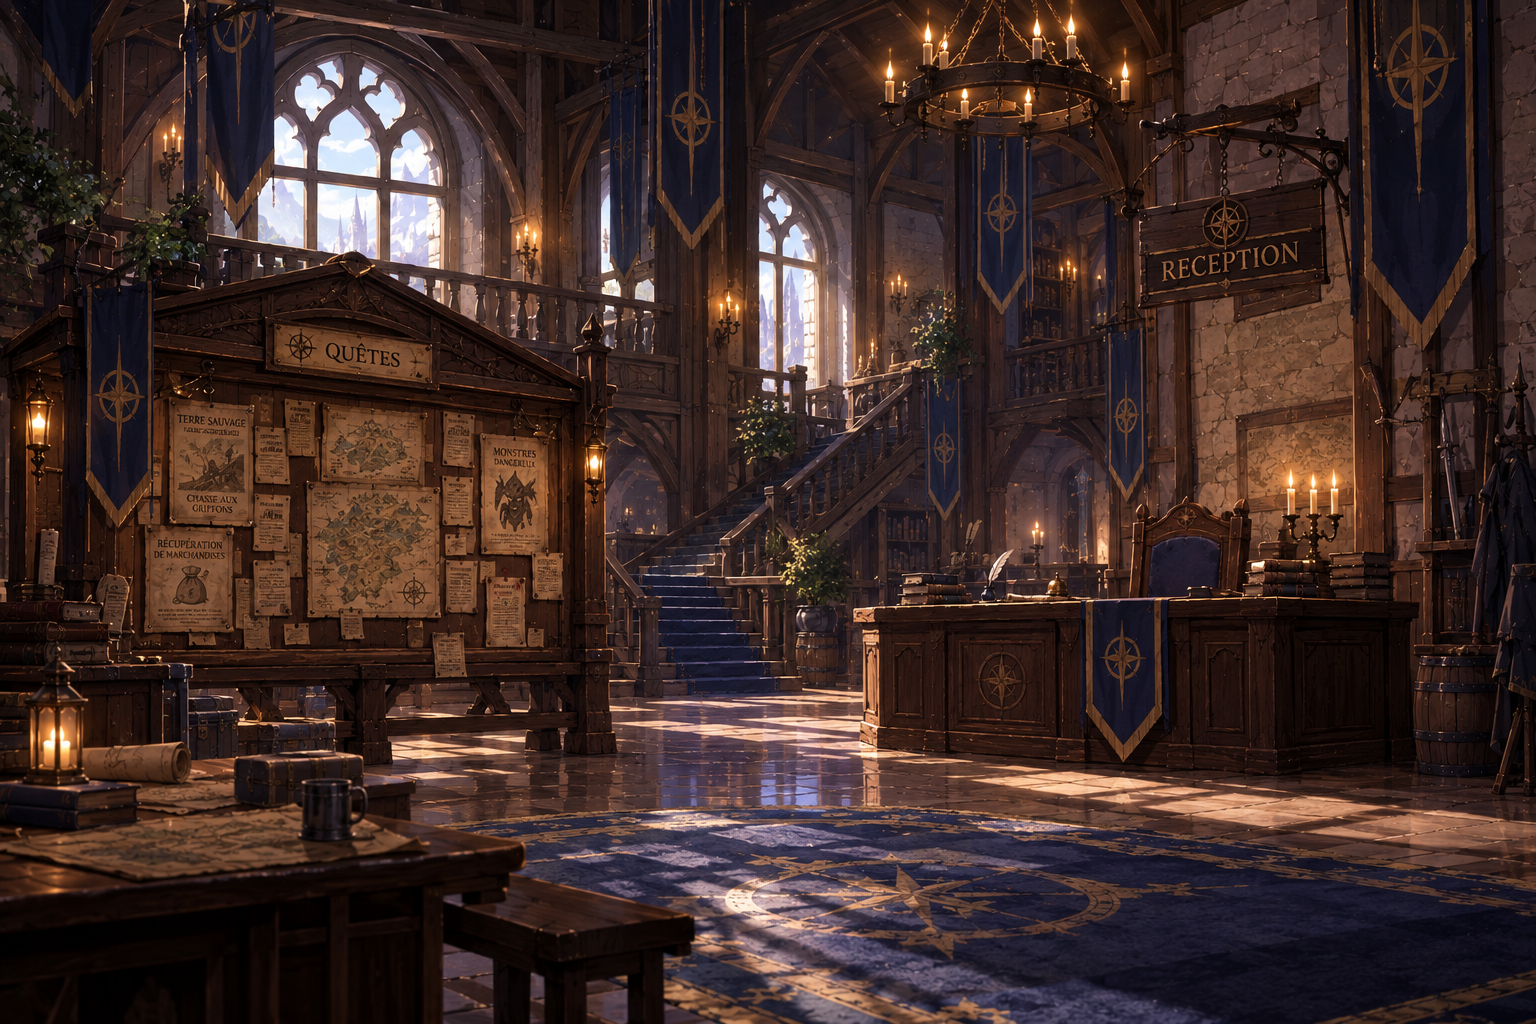
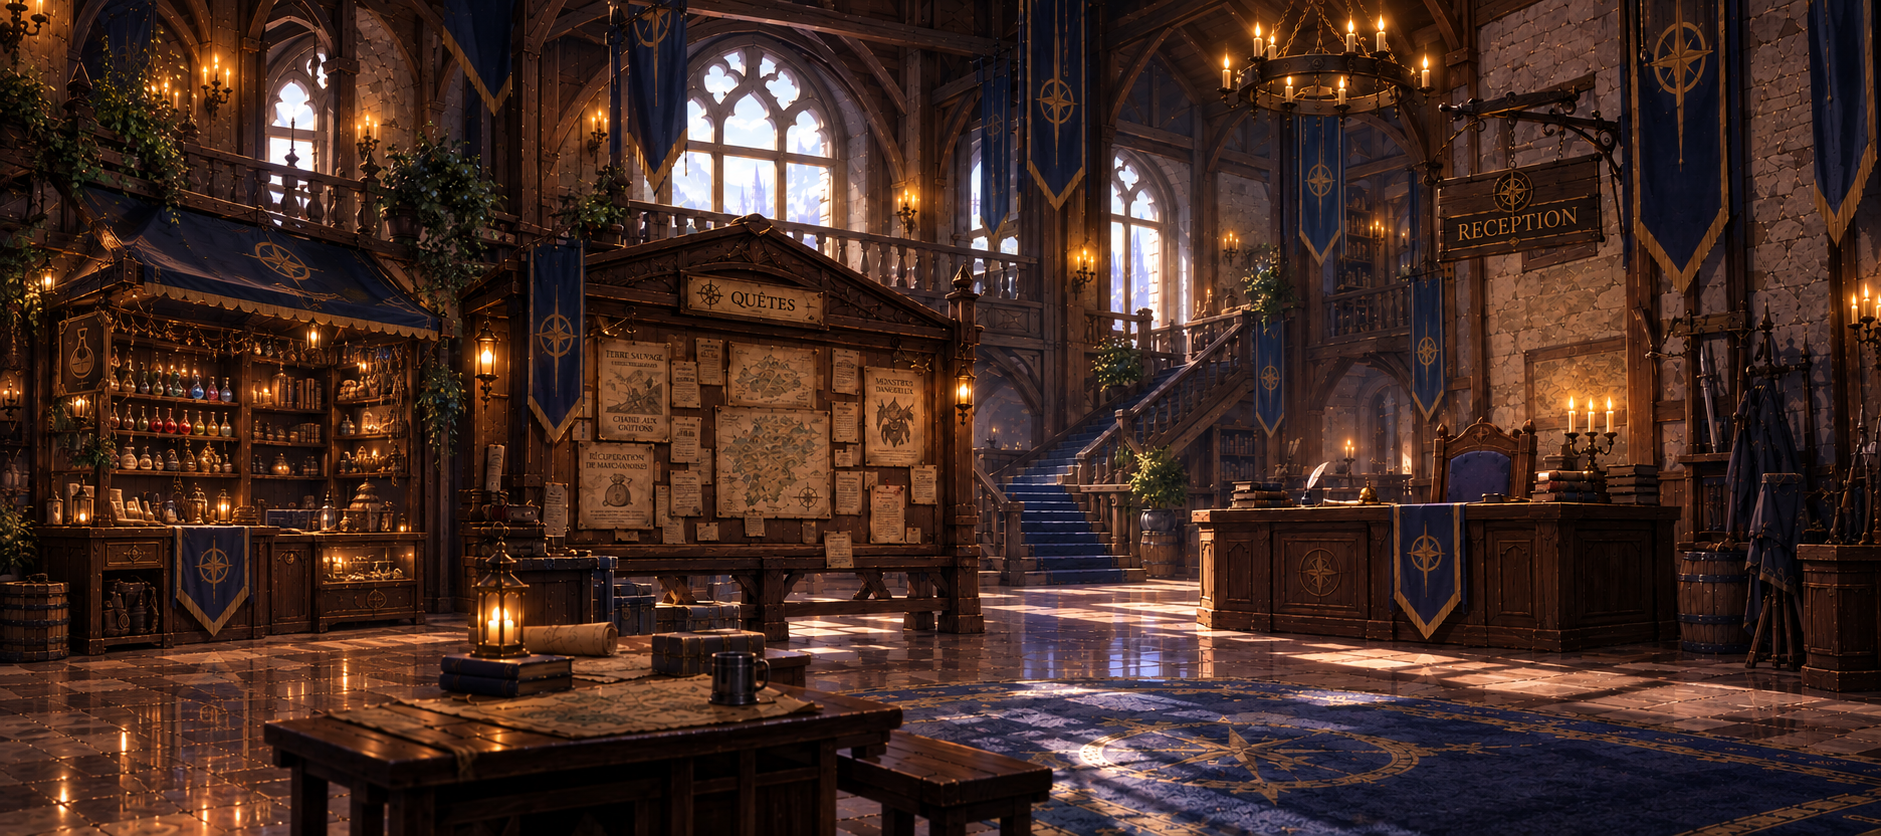
rajout hover et boutique besoin de changement sur la position

diff --git a/GuildManager/src/GuildManager.clients/View/GuildView.xaml b/GuildManager/src/GuildManager.clients/View/GuildView.xaml
@@ -3,12 +3,23 @@
              xmlns:x="http://schemas.microsoft.com/winfx/2006/xaml"
              xmlns:controls="clr-namespace:GuildManager.Client.View.Controls">
     <Viewbox Stretch="Uniform">
-        <Canvas Width="1536" Height="1024">
-            <Image Source="/Assets/UI/guilde_background.png" Width="1536" Height="1024"/>
+        <Canvas Width="1867" Height="819">
+            <Image Source="/Assets/Backgrounds/guilde_background.png" Width="1867" Height="819"/>
 
-            <controls:HoverHotspot Canvas.Left="100" Canvas.Top="260"
-                                   Width="520" Height="440"
-                                   Clicked="OnQuestBoardClicked"/>
+            <!-- Store : l'échoppe à gauche -->
+            <controls:HoverHotspot Canvas.Left="10" Canvas.Top="180"
+                                    Width="420" Height="460"
+                                    Clicked="OnStoreClicked"/>
+
+            <!-- Quêtes : le tableau au centre -->
+            <controls:HoverHotspot Canvas.Left="530" Canvas.Top="190"
+                                    Width="630" Height="460"
+                                    Clicked="OnQuestBoardClicked"/>
+
+            <!-- Recrutement : le bureau de réception à droite -->
+            <controls:HoverHotspot Canvas.Left="1220" Canvas.Top="375"
+                                    Width="470" Height="260"
+                                    Clicked="OnReceptionClicked"/>
         </Canvas>
     </Viewbox>
 </UserControl>

diff --git a/GuildManager/src/GuildManager.clients/View/GuildView.xaml.cs b/GuildManager/src/GuildManager.clients/View/GuildView.xaml.cs
@@ -13,4 +13,11 @@ public partial class GuildView : UserControl
     private void OnQuestBoardClicked(object sender, RoutedEventArgs e)
     {
     }
+
+    private void OnReceptionClicked(object sender, RoutedEventArgs e)
+    {
+    }
+    private void OnStoreClicked(object sender, RoutedEventArgs e)
+    {
+    }
 }
